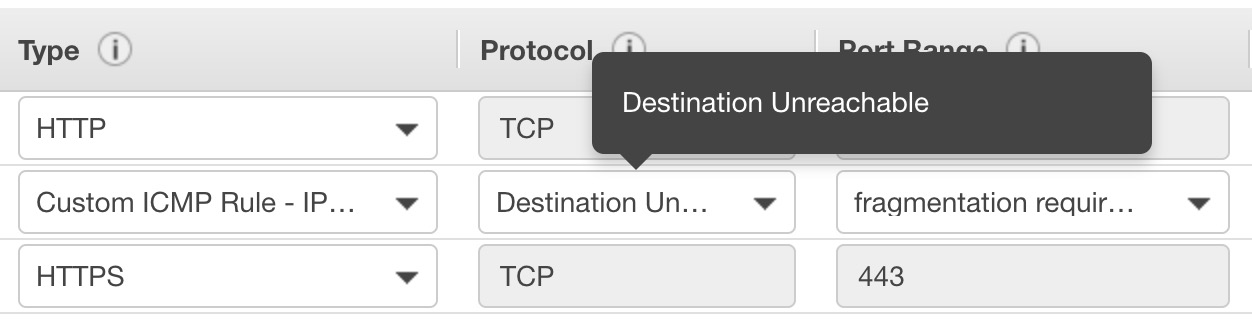
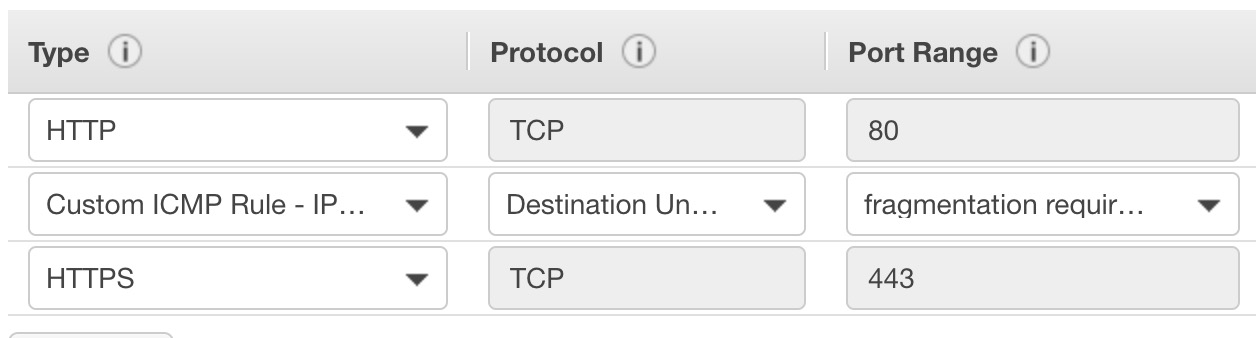
Initial pre-release; updated readme.md

Changed region(s): [[0.0, 0.0938, 1.0, 1.0], [0.9968, 0.0938, 1.0, 0.2188]]

diff --git a/README.MD b/README.MD
@@ -1,3 +1,9 @@
+__Bugs and requests__: submit them through the project's issues tracker.<br>
+[![Issues](https://img.shields.io/github/issues/robmaynardjr/SmartCheck-Terraform-Lab.svg)]( https://github.com/robmaynardjr/SmartCheck-Terraform-Lab/issues ) [![GitHub tag](https://img.shields.io/github/tag-date/robmaynardjr/SmartCheck-Terraform-Lab.svg)](https://github.com/robmaynardjr/SmartCheck-Terraform-Lab/tags/)
+
+
+
+
 # **Deep Security SmartCheck Lab Template**
 
 This repository contains a terraform template to deploy a Trend Micro Deep Security SmartCheck lab into AWS. This project is configured to be launched from MacOS.
@@ -46,7 +52,7 @@ You will need an existing VPC with at least 2 subnets in 2 different availabilit
 ![](/img/sgrules.jpg)
 
 
-**The Port Range field is set to "fragmentation required, and DF flag set"**
+**Custom ICMP Rule: Protocol set to "Destination Unreachable" and port range field is set to "fragmentation required, and DF flag set"**
 
 You will also need to configure a role with ability to create and manage the EKS Cluster. The role needs to be configured with the following roles:
 
@@ -68,8 +74,9 @@ The terraform file that builds the Kubernetes cluster uses variables that need t
 
 `touch config.tf`
 
-Copy the below into config.tf. You will need to populate the variables by placing the value between the empty quotes. In the case where the variable is an AWS resource, it either requires an AWS resource ID or ARN if labeled assuch, both of which can be found in your AWS console.
+Copy the below into config.tf. You will need to populate the variables by placing the value between the empty quotes. In the case where the variable is an AWS resource, it either requires an AWS resource ID or ARN if labeled as such, both of which can be found in your AWS console.
 
+config.tf:
 ```
 data "aws_availability_zones" "available" {}
 variable "access_key" {
